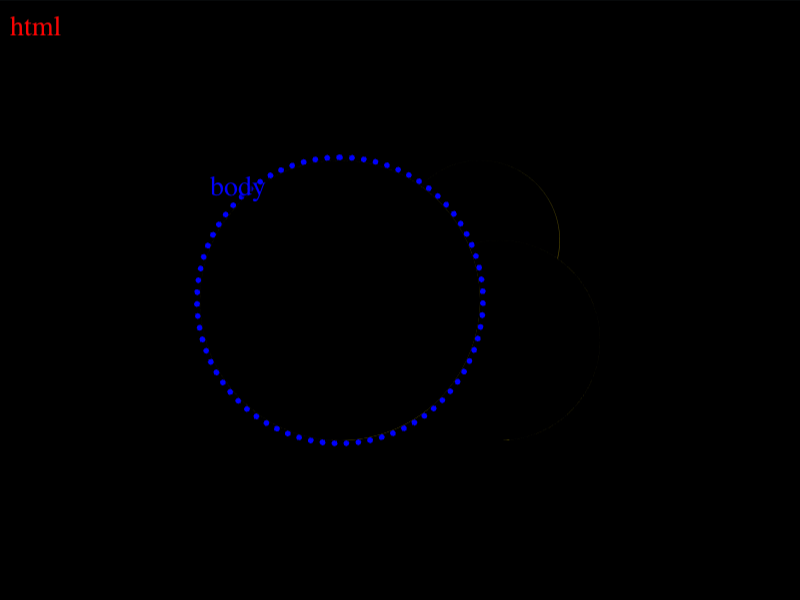
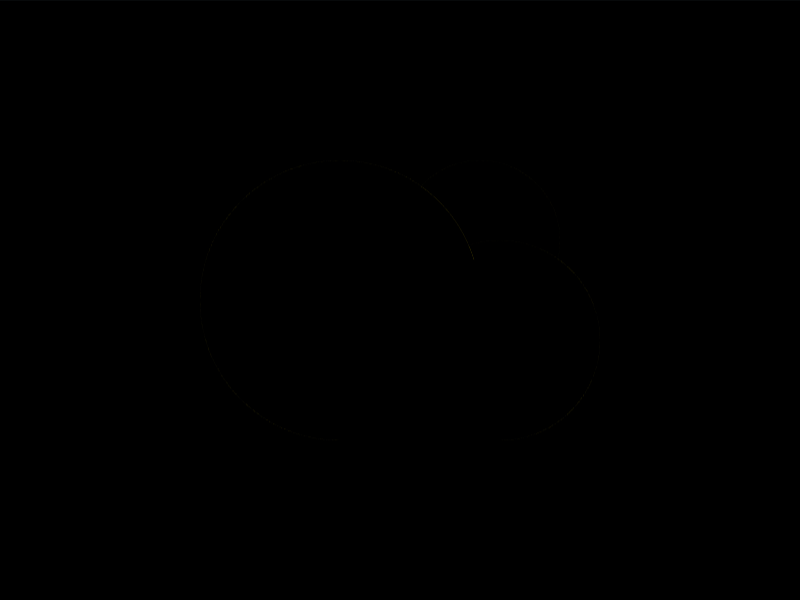
Score: 671.94, Characters: 180 (100.00% match) - CSSHub

diff --git a/Daily Targets/2026-09-03/README.md b/Daily Targets/2026-09-03/README.md
@@ -22,27 +22,27 @@ Challenge: <https://cssbattle.dev/play/4Vcs99dhGoi89v5nqX2E>
 ## Code
 
 ```html
-<style>&{background:#3246DE;*{border-radius:9in;margin:80 40%80 100;color:DDDEEB;box-shadow:inset 1in 2in,5pc 5vw 0-5vw,5ch 32q 0-11q,74q -32q 0-32q#7F8AE9;clip-path:inset(0-25vw
+.<style>&{margin:80 40%80 100;border-radius:9in;color:DDDEEB;box-shadow:inset 0 9in,5pc 5vw 0-5vw,70px -30px 0-30px#7F8AE9;background:#3246DE;*{margin:50-10 0 70;background:#DDDEEB
 ```
 
 ## Prettified code
 
 ```html
+.
 <style>
 & {
+  margin: 80 40% 80 100;
+  border-radius: 9in;
+  color: DDDEEB;
+  box-shadow:
+    inset 0 9in,
+    5pc 5vw 0 -5vw,
+    70px -30px 0 -30px #7f8ae9;
   background: #3246de;
   * {
-    border-radius: 9in;
-    margin: 80 40% 80 100;
-    color: DDDEEB;
-    box-shadow:
-      inset 1in 2in,
-      5pc 5vw 0 -5vw,
-      5ch 32Q 0 -11Q,
-      74Q -32Q 0 -32Q #7f8ae9;
-    clip-path: inset(0 -25vw);
+    margin: 50 -10 0 70;
+    background: #dddeeb;
   }
 }
-
 </style>
 ```

diff --git a/README.md b/README.md
@@ -232,7 +232,7 @@ Note - I have not yet complete all the challenges.
 <ul>
 <li><a href="./Daily%20Targets/2026-09-01/">Sep 1, 2026</a> (164 Characters)</li>
 <li><a href="./Daily%20Targets/2026-09-02/">Sep 2, 2026</a> (130 Characters)</li>
-<li><a href="./Daily%20Targets/2026-09-03/">Sep 3, 2026</a> (178 Characters)</li>
+<li><a href="./Daily%20Targets/2026-09-03/">Sep 3, 2026</a> (180 Characters)</li>
 </ul>
 </details>
 </li>
